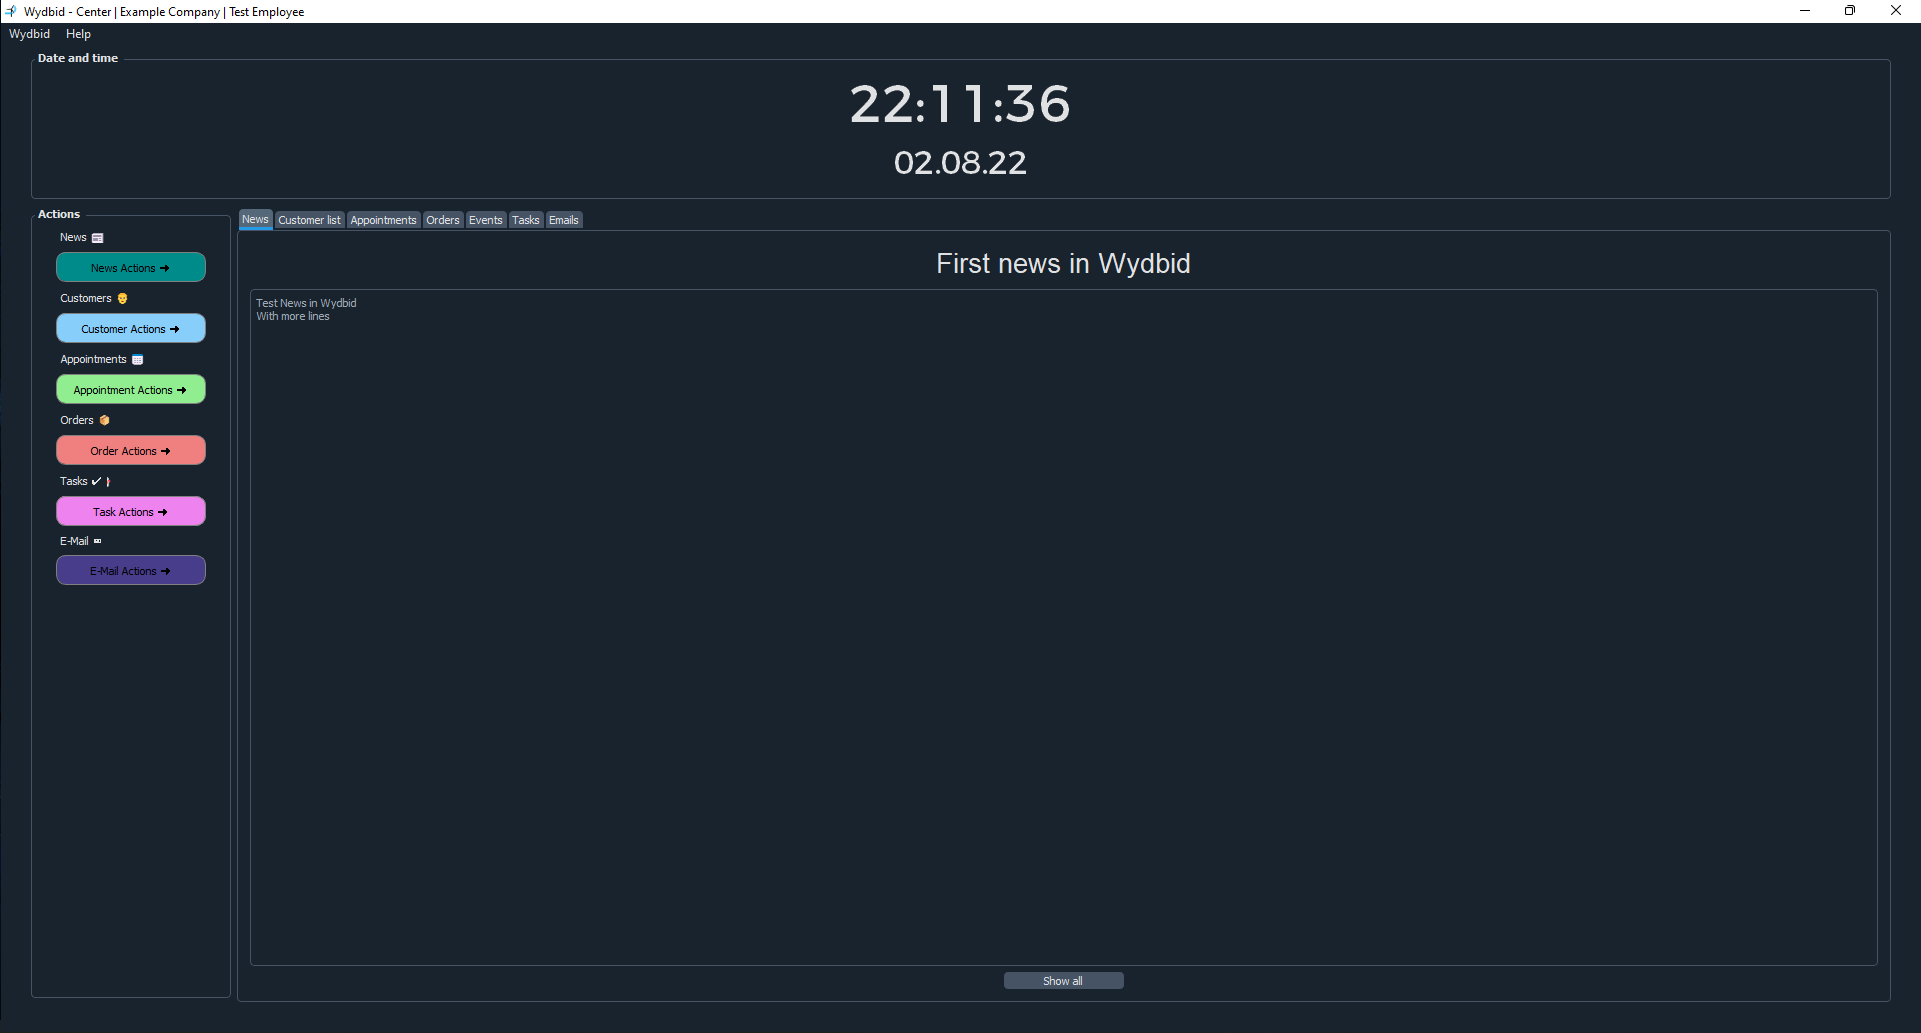
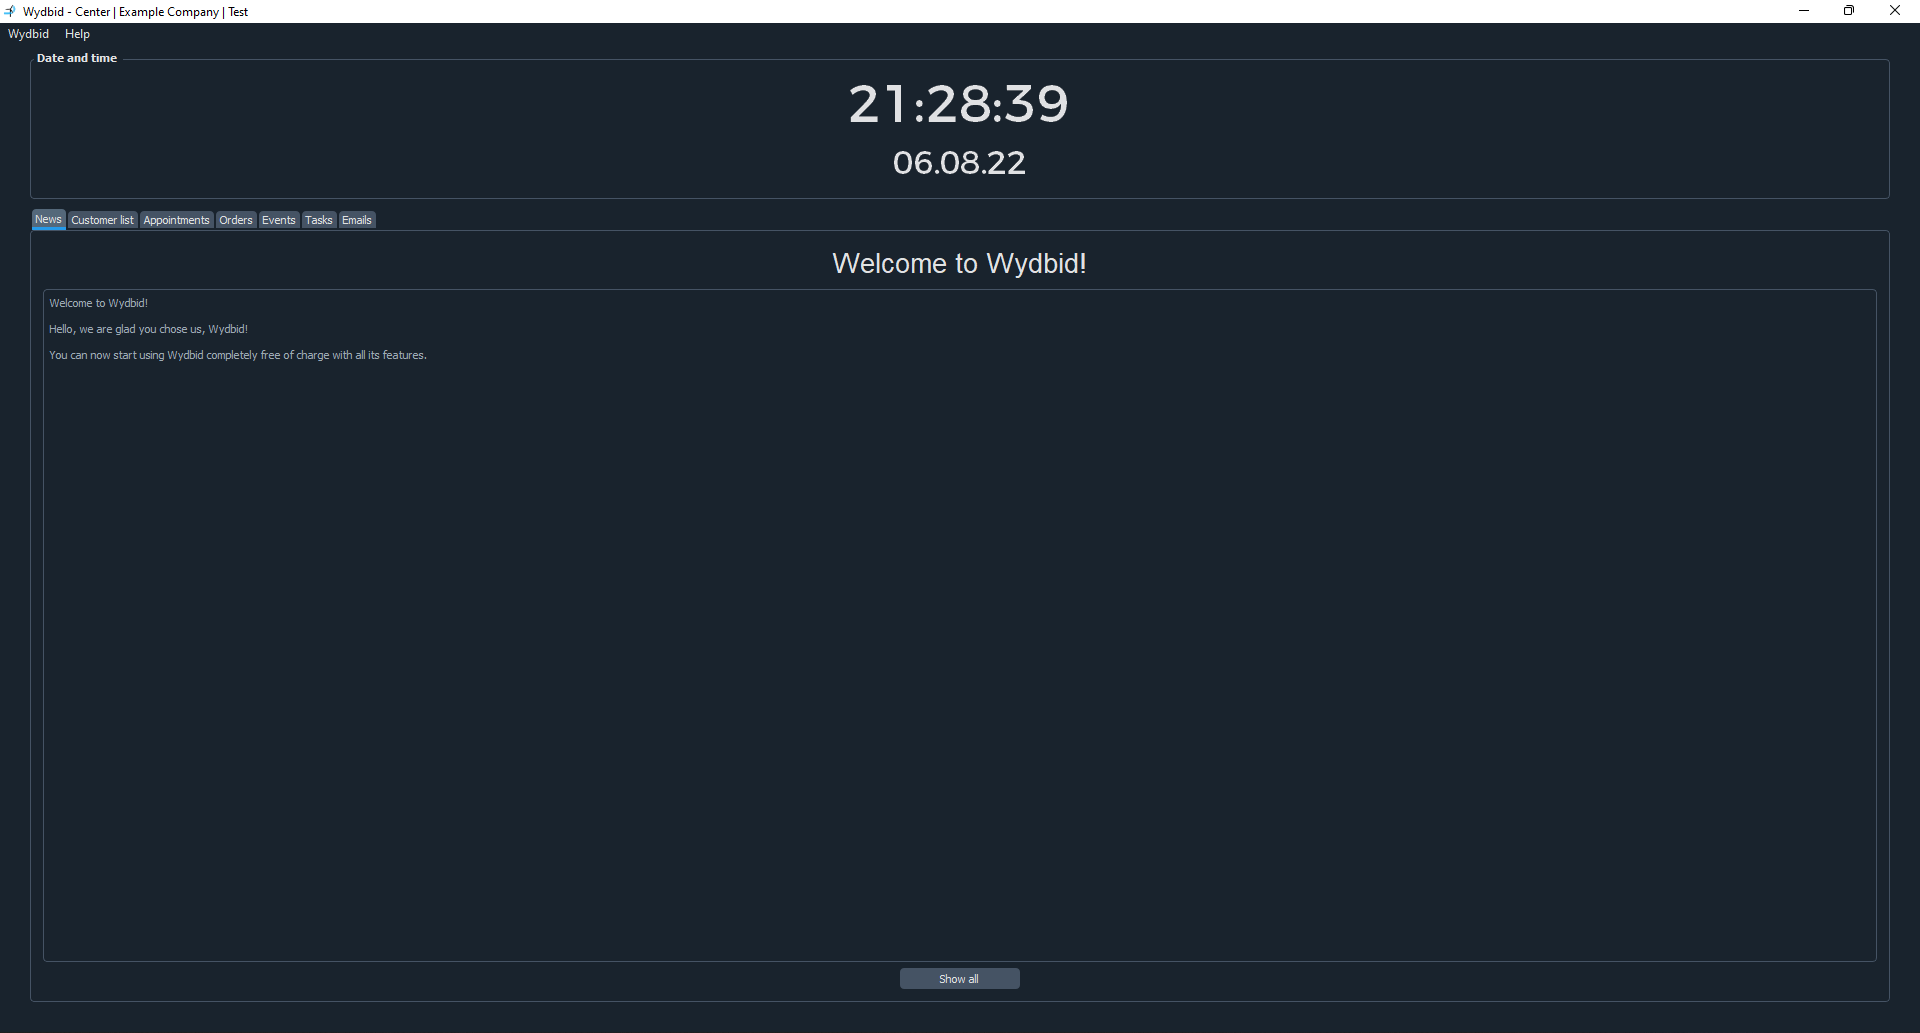
Updated pictures in readme, added automatic welcome news

diff --git a/BackEnd/WydbidBackEnd/WydbidUIMainLogic.py b/BackEnd/WydbidBackEnd/WydbidUIMainLogic.py
@@ -216,6 +216,26 @@ def searchForLastName(searchfirst: QLineEdit, searchlast: QLineEdit, list: QTabl
         list.setRowHidden(row, name not in item.text().lower())
     searchfirst.setText('')
 
+def createFirstNews():
+    engine = create_engine(f'sqlite:///{Wydbid.company_location}database.db')
+    _session = sessionmaker()
+    session = _session(bind=engine)
+
+    base.metadata.create_all(engine)
+
+    news = News(title='Welcome to Wydbid!',
+                description='''Welcome to Wydbid!
+
+Hello, we are glad you chose us, Wydbid! 
+
+You can now start using Wydbid completely free of charge with all its features.
+                ''')
+
+    session.add(news)
+    session.commit()
+
+    Wydbid.wydbidui.setLatestNews()
+
 def getLatestNews(wydbidui):
     engine = create_engine(f'sqlite:///{Wydbid.company_location}database.db')
     _session = sessionmaker()
@@ -226,6 +246,7 @@ def getLatestNews(wydbidui):
     news = session.query(News).all()
 
     if not news:
+        createFirstNews()
         return None
 
     news.sort(key=lambda x: x.id, reverse=False)

diff --git a/UI/WydbidUI/WydbidUIMain.py b/UI/WydbidUI/WydbidUIMain.py
@@ -10,7 +10,6 @@ from UI.WydbidUI.Prefabs.Customer import ViewCustomer, CreateCustomer, EditCusto
 from UI.WydbidUI.Prefabs.News import ShowAllNews
 import screeninfo
 
-# ToDo: Update Pictures in Readme
 # ToDo: New slogan: There is nothing, oh wait, there is, Wydbid!
 
 class WydbidUIMain(QWidget):
@@ -141,8 +140,6 @@ class WydbidUIMain(QWidget):
     # Setup tab widgets
 
     def setupNewsWidget(self, newswidget: QWidget):
-        # ToDo: Load newest News
-
         # Layout declarations
         lyt = QVBoxLayout()
         hlyt = QHBoxLayout()
